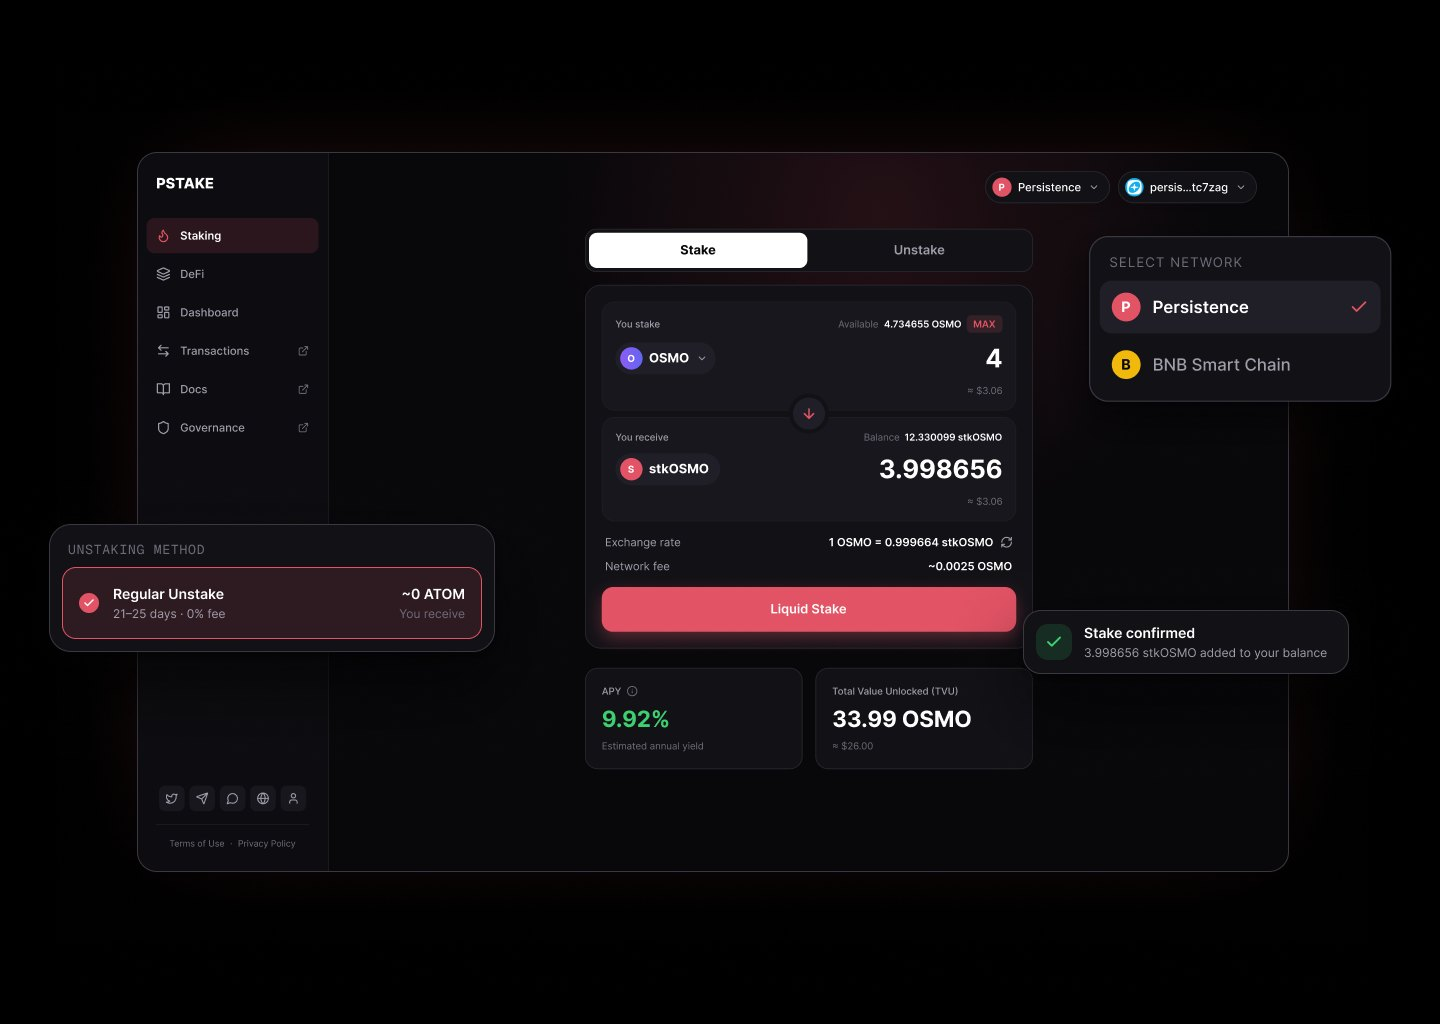
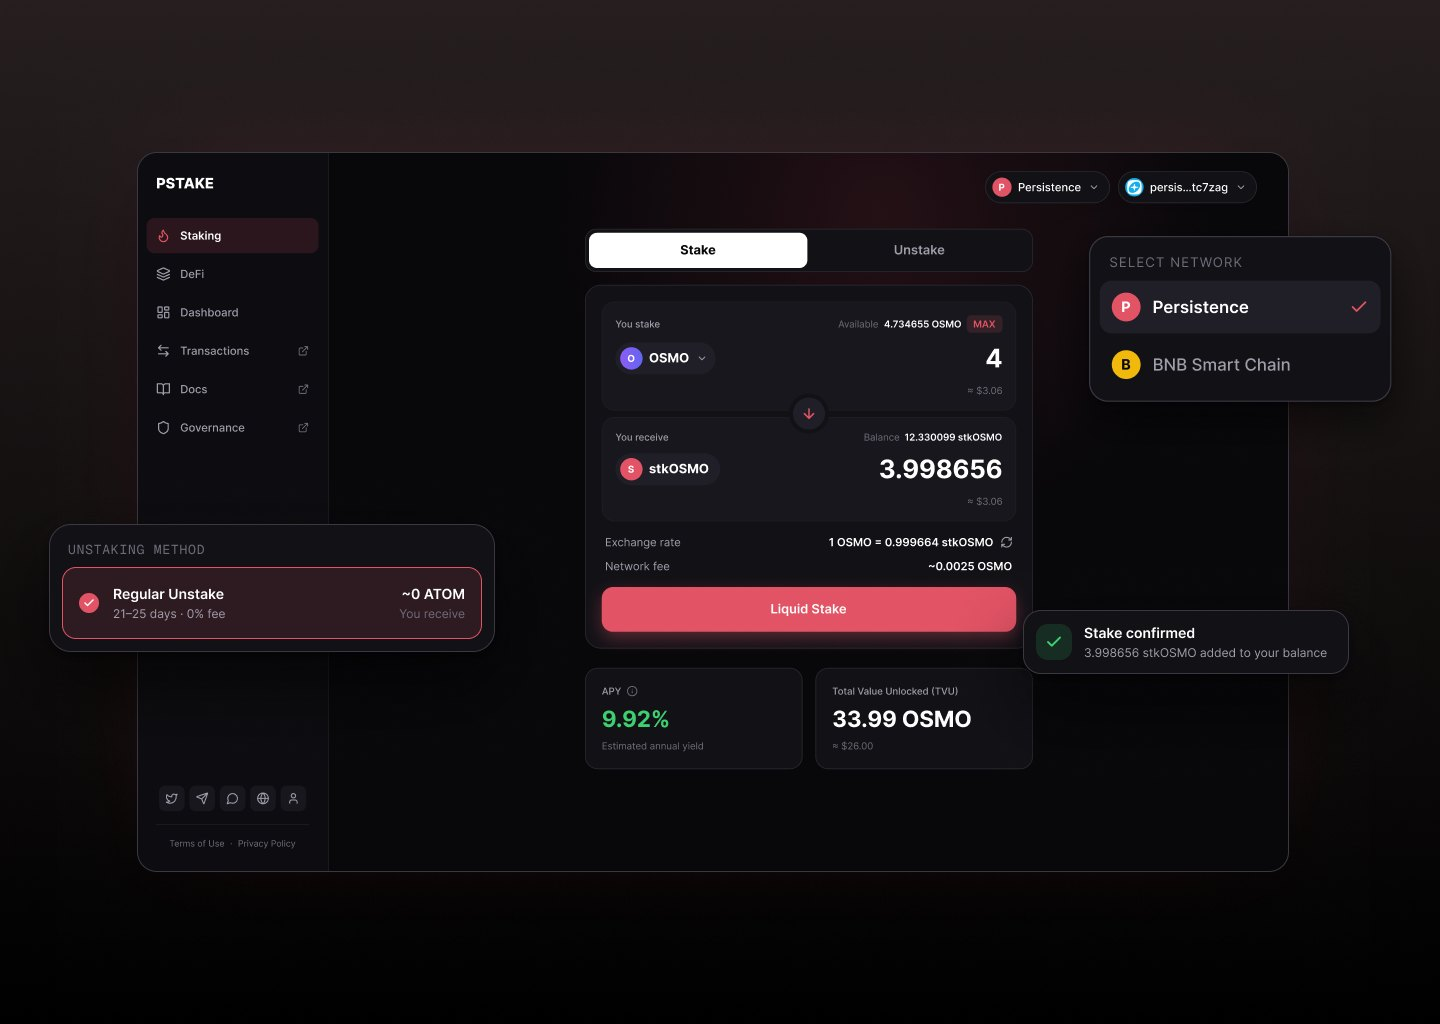
pSTAKE: updated thumbnail
Claude-Session: https://claude.ai/code/session_01XsxMJzHnu4bQwP42zg3JzL

Changed region(s): [[0.0, 0.0, 1.0, 0.375]]

diff --git a/index.html b/index.html
@@ -140,7 +140,7 @@
             <article class="project">
               <div><h3>pSTAKE Finance</h3><p class="sub">Web3 staking platform</p></div>
               <button class="card-btn" type="button" data-open="pstake" aria-haspopup="dialog" aria-label="View case study: pSTAKE Finance">
-                <span class="thumb-frame" style="display:block"><img alt="pSTAKE staking dashboard with network and unstaking method selectors" width="1440" height="1024" decoding="async" src="img/pstake-thumb.jpg"></span>
+                <span class="thumb-frame" style="display:block"><img alt="pSTAKE staking dashboard with network and unstaking method selectors" width="1440" height="1024" decoding="async" src="img/pstake-thumb.jpg?v=2"></span>
                 <span class="hover-label" aria-hidden="true"><span>View case study</span></span>
               </button>
             </article>
@@ -197,6 +197,6 @@
     </div>
     <div class="drawer-body" id="d-body"></div>
   </aside>
-  <script src="app.js?v=24" defer></script>
+  <script src="app.js?v=25" defer></script>
 </body>
 </html>
